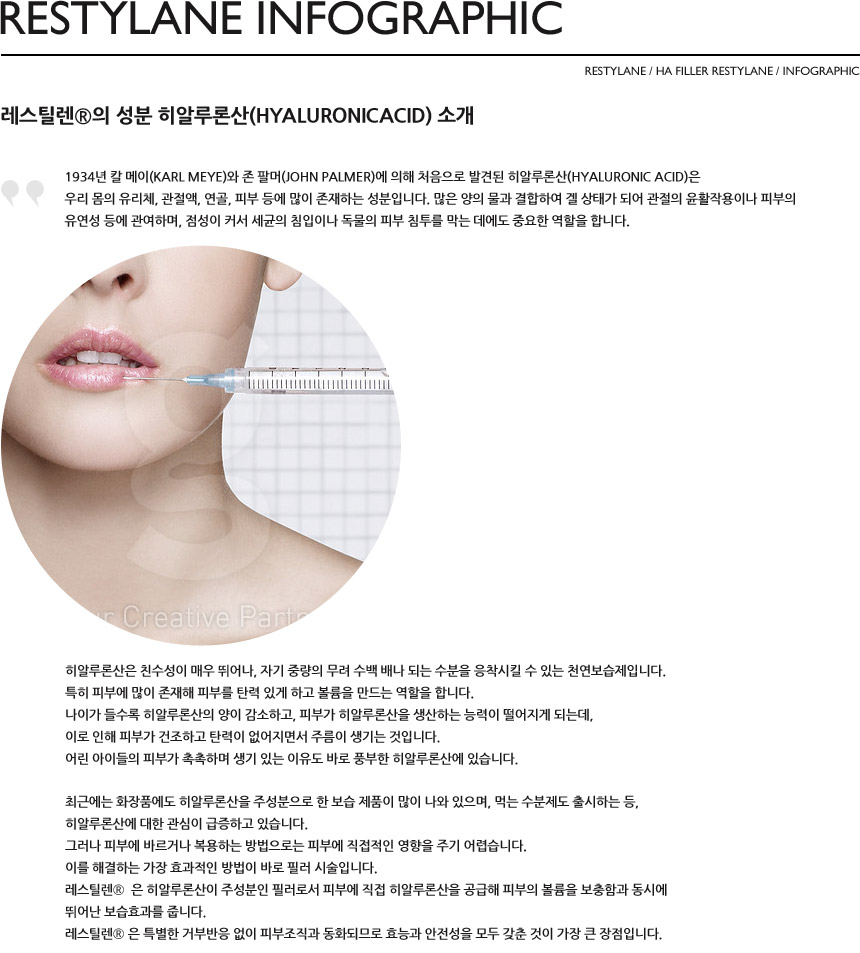
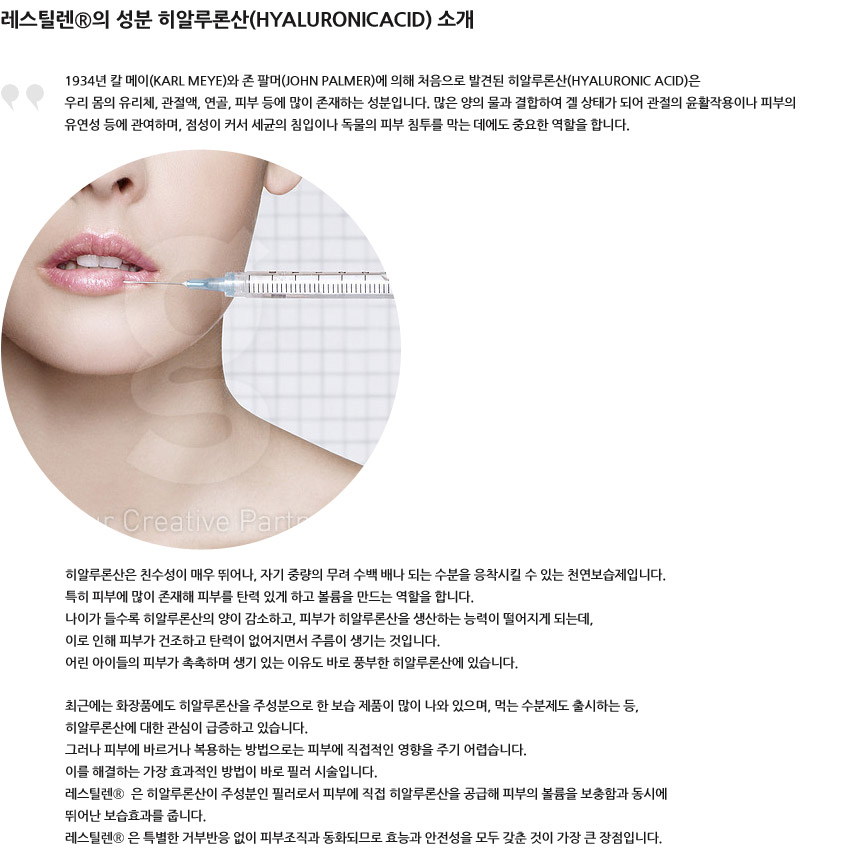
bx2

Changed region(s): [[0.0, 0.0, 1.0, 1.0]]

diff --git a/html/main.html b/html/main.html
@@ -44,26 +44,144 @@
 		<div class="slide">
 			<a href="javascript:goToSlider(0)" class="btn_shome"><img src="../img/btn_home.png" alt="Home" /></a>
 			<div class="sub_wrap">
+				<div class="sub_tit">
+					<h1>RESTYLANE INFOGRAPHIC</h1>
+					<div class="location">RESTYLANE / HA FILLER RESTYLANE / INFOGRAPHIC</div>
+				</div>
 				<img src="../img/img_sub1.jpg" alt="" />
 			</div>
+			<a href="javascript:goToNext()" class="btn_next"><img src="../img/btn_next.png" alt="다음" /></a>
 		</div>
 		<div class="slide">
 			<a href="javascript:goToSlider(0)" class="btn_shome"><img src="../img/btn_home.png" alt="Home" /></a>
 			<div class="sub_wrap">
-				<img src="../img/img_sub1.jpg" alt="" />
+				<div class="sub_tit">
+					<h1>RESTYLANE TECHNOLOGY</h1>
+					<div class="location">RESTYLANE / HA FILLER RESTYLANE / TECHNOLOGY</div>
+				</div>
+				<img src="../img/img_sub2.jpg" alt="레스틸렌 테크놀로지" />
 			</div>
+			<a href="javascript:goToNext()" class="btn_next"><img src="../img/btn_next.png" alt="다음" /></a>
 		</div>
 		<div class="slide">
 			<a href="javascript:goToSlider(0)" class="btn_shome"><img src="../img/btn_home.png" alt="Home" /></a>
 			<div class="sub_wrap">
-				<img src="../img/img_sub1.jpg" alt="" />
+				<div class="sub_tit">
+					<h1>RESTYLANE LIDOCAINE</h1>
+					<div class="location">RESTYLANE / RESTYLANE PRODUCTS / LIDOCAINE</div>
+				</div>
+				<img src="../img/img_sub3.jpg" alt="레스틸렌 리도카인" />
 			</div>
+			<a href="javascript:goToNext()" class="btn_next"><img src="../img/btn_next.png" alt="다음" /></a>
 		</div>
 		<div class="slide">
 			<a href="javascript:goToSlider(0)" class="btn_shome"><img src="../img/btn_home.png" alt="Home" /></a>
 			<div class="sub_wrap">
-				<img src="../img/img_sub1.jpg" alt="" />
+				<div class="sub_tit">
+					<h1>RESTYLANE PRODUCTS LIST</h1>
+					<div class="location">RESTYLANE / RESTYLANE PRODUCTS / LIST</div>
+				</div>
+				<div class="scr">
+					<img src="../img/img_sub4.jpg" alt="레스틸렌 제품목록" />
+				</div>
 			</div>
+			<a href="javascript:goToNext()" class="btn_next2"><img src="../img/btn_next.png" alt="다음" /></a>
+		</div>
+		<div class="slide">
+			<a href="javascript:goToSlider(0)" class="btn_shome"><img src="../img/btn_home.png" alt="Home" /></a>
+			<div class="sub_wrap">
+				<div class="sub_tit">
+					<h1>RESTYLANE TREATMENTS</h1>
+					<div class="location">RESTYLANE / RESTYLANE TREATMENTS</div>
+				</div>
+				<img src="../img/img_sub5.jpg" alt="레스틸렌 제품관리" />
+			</div>
+			<a href="javascript:goToNext()" class="btn_next"><img src="../img/btn_next.png" alt="다음" /></a>
+		</div>
+		<div class="slide">
+			<a href="javascript:goToSlider(0)" class="btn_shome"><img src="../img/btn_home.png" alt="Home" /></a>
+			<div class="sub_wrap">
+				<div class="sub_tit">
+					<h1>RESTYLANE TREATMENTS</h1>
+					<div class="location">RESTYLANE / RESTYLANE TREATMENTS</div>
+				</div>
+				<img src="../img/img_sub6.jpg" alt="레스틸렌 시술전" />
+			</div>
+			<a href="javascript:goToNext()" class="btn_next"><img src="../img/btn_next.png" alt="다음" /></a>
+		</div>
+		<div class="slide">
+			<a href="javascript:goToSlider(0)" class="btn_shome"><img src="../img/btn_home.png" alt="Home" /></a>
+			<div class="sub_wrap">
+				<div class="sub_tit">
+					<h1>RESTYLANE SKIN CARE</h1>
+					<div class="location">RESTYLANE / SKIN CARE</div>
+				</div>
+			</div>
+			<a href="javascript:goToNext()" class="btn_next"><img src="../img/btn_next.png" alt="다음" /></a>
+		</div>
+		<div class="slide">
+			<a href="javascript:goToSlider(0)" class="btn_shome"><img src="../img/btn_home.png" alt="Home" /></a>
+			<div class="sub_wrap">
+				<div class="sub_tit">
+					<h1>RESTYLANE SNS NEWS</h1>
+					<div class="location">RESTYLANE / RESTYLANE NEWS / SNS</div>
+				</div>
+				<div class="sns_lst">
+					<ul>
+						<li></li>
+						<li></li>
+						<li></li>
+						<li></li>
+						<li></li>
+						<li></li>
+						<li></li>
+						<li></li>
+					</ul>
+				</div>
+			</div>
+			<a href="javascript:goToNext()" class="btn_next"><img src="../img/btn_next.png" alt="다음" /></a>
+		</div>
+		<div class="slide">
+			<a href="javascript:goToSlider(0)" class="btn_shome"><img src="../img/btn_home.png" alt="Home" /></a>
+			<div class="sub_wrap">
+				<div class="sub_tit">
+					<h1>RESTYLANE PRESS</h1>
+					<div class="location">RESTYLANE / RESTYLANE NEWS / PRESS</div>
+				</div>
+				<div class="press_lst">
+					<ul>
+						<li></li>
+						<li></li>
+						<li></li>
+						<li></li>
+						<li></li>
+						<li></li>
+						<li></li>
+						<li></li>
+					</ul>
+				</div>
+			</div>
+			<a href="javascript:goToNext()" class="btn_next"><img src="../img/btn_next.png" alt="다음" /></a>
+		</div>
+		<div class="slide">
+			<a href="javascript:goToSlider(0)" class="btn_shome"><img src="../img/btn_home.png" alt="Home" /></a>
+			<div class="sub_wrap">
+				<div class="sub_tit">
+					<h1>RESTYLANE FAQ</h1>
+					<div class="location">RESTYLANE / RESTYLANE FAQ / FAQ</div>
+				</div>
+			</div>
+			<a href="javascript:goToNext()" class="btn_next"><img src="../img/btn_next.png" alt="다음" /></a>
+		</div>
+		<div class="slide">
+			<a href="javascript:goToSlider(0)" class="btn_shome"><img src="../img/btn_home.png" alt="Home" /></a>
+			<div class="sub_wrap">
+				<div class="sub_tit">
+					<h1>RESTYLANE MAIL</h1>
+					<div class="location">RESTYLANE / RESTYLANE FAQ / MAIL</div>
+				</div>
+			</div>
+			<a href="javascript:goToNext()" class="btn_next"><img src="../img/btn_next.png" alt="다음" /></a>
 		</div>
 	</div>
 	<div id="mask"></div>
@@ -72,30 +190,26 @@
 			<ul id="lnb">
 				<li><a href="javascript:goToSlider(1)">HA필러 레스틸렌</a>
 					<ul class="dep2">
-						<li><a href="javascript:goToSlider(2)">HA필러 리도카인</a></li>
-						<li><a href="#">HA필러 제품리스트</a></li>
+						<li><a href="javascript:goToSlider(1)">레스틸렌 인포그래픽</a></li>
+						<li><a href="javascript:goToSlider(2)">레스틸렌 테크놀로지</a></li>
 					</ul>
 				</li>
-				<li><a href="#">레스틸렌 제품</a>
+				<li><a href="javascript:goToSlider(3)">레스틸렌 제품</a>
 					<ul class="dep2">
-						<li><a href="#">레스틸렌 리도카인</a></li>
-						<li><a href="#">레스틸렌 제품리스트</a></li>
+						<li><a href="javascript:goToSlider(3)">레스틸렌 리도카인</a></li>
+						<li><a href="javascript:goToSlider(4)">레스틸렌 제품군</a></li>
+						<li><a href="javascript:goToSlider(5)">레스틸렌 효능/효과 및 이상반응</a></li>
 					</ul>
 				</li>
-				<li><a href="#">레스틸렌 시술팁</a>
+				<li><a href="javascript:goToSlider(6)">레스틸렌 시술팁</a></li>
+				<li><a href="javascript:goToSlider(7)">레스틸렌 스킨케어</a></li>
+				<li><a href="javascript:goToSlider(8)">레스틸렌 뉴스</a>
 					<ul class="dep2">
-						<li><a href="#">레스틸렌 시술팁1</a></li>
-						<li><a href="#">레스틸렌 시술팁2</a></li>
+						<li><a href="javascript:goToSlider(8)">SNS</a></li>
+						<li><a href="javascript:goToSlider(9)">PRESS</a></li>
 					</ul>
 				</li>
-				<li><a href="#">레스틸렌 스킨케어</a>
-					<ul class="dep2">
-						<li><a href="#">레스틸렌 시술팁1</a></li>
-						<li><a href="#">레스틸렌 시술팁2</a></li>
-					</ul>
-				</li>
-				<li><a href="#">레스틸렌 뉴스</a></li>
-				<li><a href="#">레스틸렌 문의</a></li>
+				<li><a href="javascript:goToSlider(10)">레스틸렌 문의</a></li>
 			</ul>
 			<div class="search">
 				<label for="ip_search" class="blind">검색</label>
@@ -106,8 +220,8 @@
 		
 		<div class="footer">
 			<div class="link">
-				<a href="#"><img src="../img/trans.gif" alt="FACE BOOK" class="link1" /></a>
-				<a href="#"><img src="../img/trans.gif" alt="TEL" class="link2" /></a>
+				<a href="javascript:goToSlider(8)"><img src="../img/trans.gif" alt="SNS" class="link1" /></a>
+				<a href="javascript:goToSlider(10)"><img src="../img/trans.gif" alt="FAQ" class="link2" /></a>
 				<a href="javascript:goToSlider(0)"><img src="../img/trans.gif" alt="Home" class="link3" /></a>
 			</div>
 			<div class="text">

diff --git a/css/common.css b/css/common.css
@@ -49,7 +49,7 @@ h1.logo{position:absolute;top:40px;left:35px;z-index:100}
 .menu ul.dep2 li{color:#ddd;height:25px;line-height:26px;border-bottom:none;border-top:1px solid #A79A91;font-size:12px;overflow:hidden}
 .menu ul.dep2 li:first-child{border-top:none}
 .menu ul.dep2 li a{color:#ddd}
-.menu ul.dep2 li a:hover{color:#fff}
+.menu ul.dep2 li a:hover,.menu ul.dep2 li.on a{color:#fff}
 #lnb_wrap.bg .menu ul li{border-bottom:1px solid #AA9E95}
 #lnb_wrap.bg .menu ul li.hover{border-bottom:2px solid #fff;}
 #lnb_wrap.bg .menu ul.dep2 li{border-bottom:none}
@@ -67,7 +67,7 @@ h1.logo{position:absolute;top:40px;left:35px;z-index:100}
 .footer .link img.link2{background-position:-44px 0}
 .footer .link img.link3{background-position:-88px 0}
 
-.bg_m{background:url(../img/m_mask.png) 0 0 no-repeat;position:absolute;top:-600px;left:643px;width:562px;height:562px;margin:-281px 0 0 -281px;}
+.bg_m{background:url(../img/m_mask.png) 0 0 no-repeat;position:absolute;top:562px;left:3000px;width:562px;height:562px;margin:-281px 0 0 -281px;}
 .slide_wrap .slide .bx-wrapper{margin:0 0 0 77px !important}
 .m_slide .ms{width:562px;height:458px;padding:104px 0 0 0;}
 .m_slide .ms h1{font-family:GillSansLight;font-size:80px;color:#1a1919;font-weight:normal;line-height:66px}
@@ -78,6 +78,18 @@ h1.logo{position:absolute;top:40px;left:35px;z-index:100}
 .bg_m .bx-wrapper .bx-controls-direction a.bx-prev.disabled{background-position:-50px 0;}
 .bg_m .bx-wrapper .bx-controls-direction a.bx-next.disabled{background-position:-50px -50px;}
 
-.sub_wrap{background:#fff;width:900px;height:1045px;padding:155px 0 0 50px;margin-left:265px;-moz-box-shadow: 5px 0px 7px #938174;-webkit-box-shadow: 5px 0px 7px #938174;box-shadow: 5px 0px 7px #938174;}
+.sub_wrap{background:#fff;width:900px;height:1050px;padding:150px 0 0 50px;margin-left:265px;-moz-box-shadow: 5px 0px 7px #938174;-webkit-box-shadow: 5px 0px 7px #938174;box-shadow: 5px 0px 7px #938174;}
+.sub_wrap img{vertical-align:top;}
+.sub_wrap .scr{overflow-y:auto;overflow-x:hidden;height:884px;width:880px}
 .slide.blur .sub_wrap{margin-left:0}
 .btn_shome{position:absolute;top:12px;right:40px}
+.btn_next{position:absolute;bottom:75px;right:70px}
+.btn_next2{position:absolute;bottom:40px;right:70px}
+
+.sub_tit{height:96px;width:860px;}
+.sub_tit h1{font-family:GillSansLight;font-size:52px;line-height:52px;font-weight:normal;border-bottom:2px solid #000;height:60px;}
+.sub_tit .location{font-family:GillSansLight;font-size:13px;text-align:right;margin-top:7px}
+
+.sns_lst{}
+.sns_lst ul{870px;}
+.sns_lst li{width:278px;height:270px;border:1px solid #B9B2AB;float:left;margin:0 0 10px 10px;}

diff --git a/js/main.js b/js/main.js
@@ -36,7 +36,9 @@ $(document).ready(function(){
 		infiniteLoop: false,
 		hideControlOnEnd: true,
 		slideWidth:430,
-		slideMargin:10
+		slideMargin:10,
+		nextText:'',
+		prevText:''
 	});
 
 	$( "#mask" ).on( "click", function() {
@@ -47,7 +49,8 @@ $(document).ready(function(){
 	var setLnb = window.setTimeout(intLnb,2000);
 	function intLnb(){
 		$('#lnb_wrap').animate({'left':0},300,function(){
-			$('.bg_m').animate({'top':$(window).height()/2,'left':$(window).width()/2});
+			$('.bg_m').css({'top':$(window).height()/2})
+				.animate({'left':$(window).width()/2});
 		});
 		window.clearTimeout(setLnb);
 		$( window ).resize(function() {
@@ -82,6 +85,10 @@ $(document).ready(function(){
 
 function goToSlider(v){
 	slider.goToSlide(v);
+}
+
+function goToNext(){
+	slider.goToNextSlide();
 }
 
 jQuery('.navi_1depth > li').bind('mouseenter focusin', function(event) {
